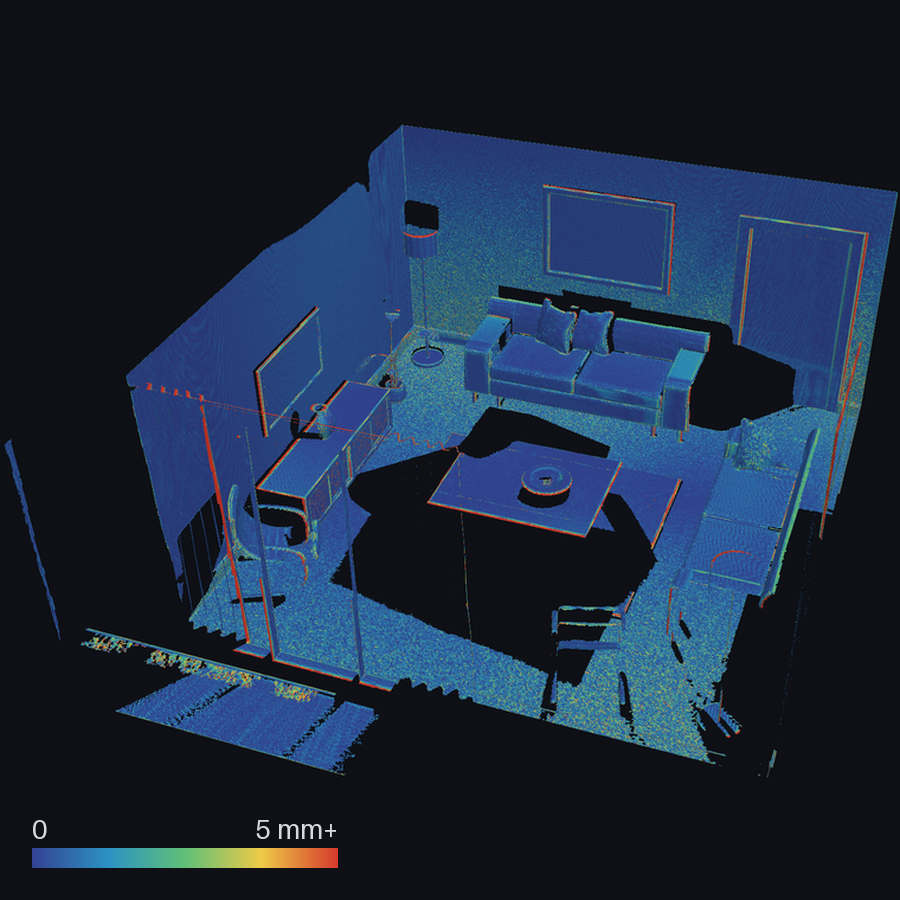
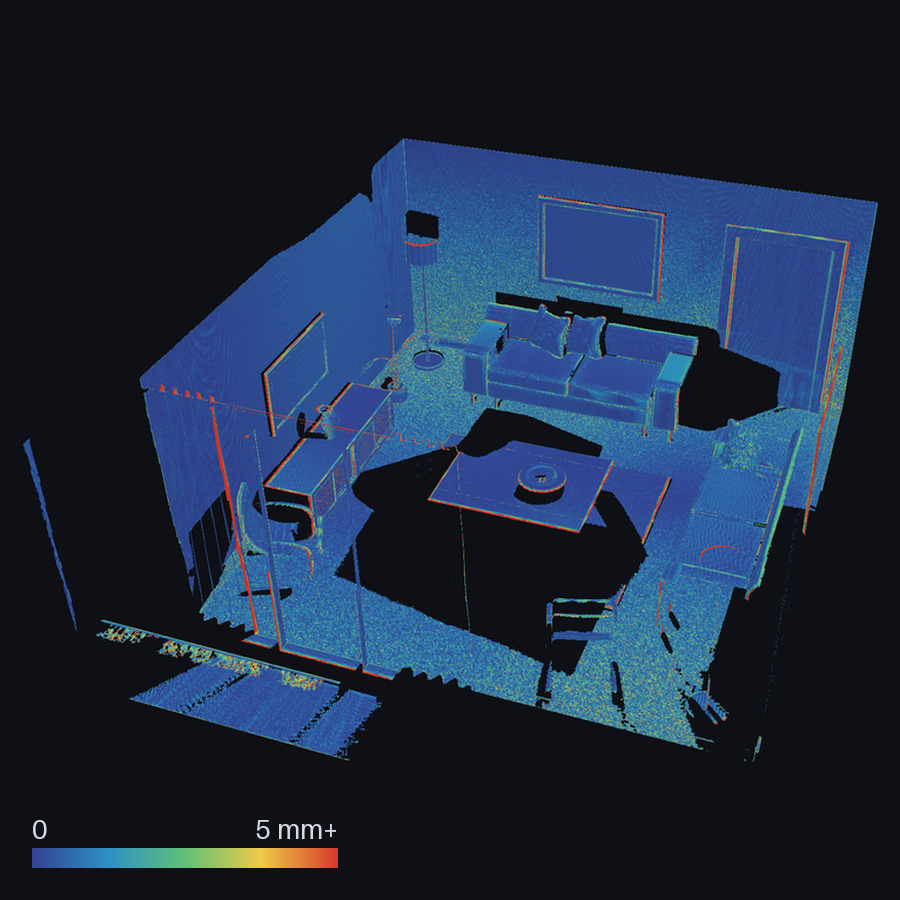
Lead the README with the room and its measured error
The first thing on the page was a desk. It is now the living room at
10 mm turning slowly, coloured from the scan on the left and by its
distance to the ground-truth surface on the right, the two panels
locked to one camera. The caption says what it is: ICL-NUIM's synthetic
scene with exact poses, with the real sensor further down.

Under it, four lines for someone who reads no further: 0.45 mm median
against a known surface, 7.5 mm median residual on a real depth camera,
the same bytes on three operating systems, and what it costs.

The TUM animation moves into the TUM section, beside the geometry-only
view of the same mesh, and the still it replaces is removed. The
accuracy section now pairs the room's bare geometry with its error map,
re-rendered with the flatter lighting.

The ICL-NUIM page gains the command that draws the two panels, and one
correction. A draft of it said the floor was a millimetre or two worse
than the walls, read off the picture. It is not: the medians are
0.53 and 0.47 mm. The page now gives those figures and the real
difference, which is that 28% of the floor is over a millimetre against
15% of the walls.

Changed region(s): [[0.0, 0.1244, 0.9956, 0.8711], [0.84, 0.8089, 0.8711, 0.84], [0.4978, 0.6222, 0.5289, 0.6533]]

diff --git a/README.md b/README.md
@@ -8,15 +8,24 @@ metric TSDF volume and a triangle mesh — reproducibly, bit for bit, with every
 fast path proven identical to a slower one that is easier to trust.
 
 <p align="center">
-  <img src="docs/assets/tum-mesh.gif" width="560" alt="A desk scene reconstructed from the TUM RGB-D freiburg1_xyz sequence, rotating slightly">
+  <img src="docs/assets/icl-room-and-error.gif" width="100%" alt="Two views of a reconstructed living room turning slowly together. On the left it is coloured from the scan: a sofa, a coffee table, pictures on the walls, a lamp. On the right the same mesh is coloured by its distance to the ground-truth surface: blue almost everywhere, with thin red lines along the edges of the furniture.">
 </p>
 
 <p align="center">
-  <em>The TUM RGB-D <code>freiburg1_xyz</code> desk, reconstructed at 15 mm
-  from 395 frames of a real<br>depth camera: 535,486 triangles. This is the
-  measured volume — the numbers below<br>and this mesh come from the same
-  file, tied together by digest.</em>
+  <em>A living room reconstructed at 10 mm from 440 depth frames: 7.2
+  million triangles. Left, coloured from the scan.<br>Right, the same mesh
+  coloured by its measured distance from the ground-truth surface, on a
+  scale that stops at 5 mm.<br>Half of it is within 0.45 mm. The scene is
+  ICL-NUIM's, synthetic and with exact poses; a real sensor is further
+  down.</em>
 </p>
+
+| | |
+|---|---|
+| Against a known surface | **0.45 mm** median, 0.77 mm mean distance to ground truth at 10 mm voxels ([ICL-NUIM](#against-a-known-surface), synthetic depth, exact poses) |
+| On a real depth camera | **7.5 mm** median residual against frames never fused, at 15 mm voxels ([TUM RGB-D](#results-on-real-data)) |
+| Reproducible | the committed scan reconstructs to the same bytes on Linux, macOS and Windows, under Python 3.11 and 3.14, checked on every push |
+| Cost | one CPU core and NumPy: 6.3 billion voxel-observations fused in 211 s |
 
 ---
 
@@ -71,14 +80,16 @@ uses ground-truth poses throughout, so it says nothing about pose estimation.
 It bounds disagreement between views, not absolute correctness.
 
 <p align="center">
-  <img src="docs/assets/tum-mesh-geometry.png" width="49%" alt="The reconstructed mesh shaded without colour">
-  <img src="docs/assets/tum-mesh.png" width="49%" alt="The same mesh coloured from the scan's RGB frames">
+  <img src="docs/assets/tum-mesh.gif" width="49%" alt="A desk reconstructed from the TUM RGB-D freiburg1_xyz sequence, coloured from the scan and rotating slightly">
+  <img src="docs/assets/tum-mesh-geometry.png" width="49%" alt="The same mesh shaded without colour">
 </p>
 
 <p align="center">
-  <em>Left: the geometry alone. Right: the same mesh, each vertex coloured
-  only by RGB frames that<br>actually see it. Colour is a way of looking at
-  the geometry; the mesh file carries none.</em>
+  <em>The desk at 15 mm, 535,486 triangles, from 395 frames of a real
+  depth camera. Left: each vertex coloured<br>only by RGB frames that
+  actually see it. Right: the geometry alone. This is the measured
+  volume: the numbers<br>above and this mesh come from the same file,
+  tied together by digest.</em>
 </p>
 
 On one laptop CPU core, with NumPy and no GPU:
@@ -105,14 +116,15 @@ surface is from the truth, because TUM does not publish the truth.
 synthetic living room, rendered from a model that ships with the dataset.
 
 <p align="center">
-  <img src="docs/assets/icl-room.png" width="49%" alt="The ICL-NUIM living room reconstructed at 10 mm and coloured from the scan, seen from above with the near walls removed">
-  <img src="docs/assets/icl-room-error.png" width="49%" alt="The same mesh coloured by distance to the ground-truth model: blue almost everywhere, with thin red lines along the edges of furniture, picture frames and the door">
+  <img src="docs/assets/icl-room-geometry.png" width="49%" alt="The ICL-NUIM living room reconstructed at 10 mm, shaded without colour and seen from above with the near walls removed: sofa cushions, picture frames and a door panel are all resolved">
+  <img src="docs/assets/icl-room-error.png" width="49%" alt="The same mesh coloured by distance to the ground-truth model: blue almost everywhere, finely speckled with lighter points, and thin red lines along the edges of furniture, picture frames and the door">
 </p>
 
 <p align="center">
-  <em>Left: the room at 10 mm voxels, 7.2 million triangles. Right: the same
-  mesh coloured by its distance<br>to the ground-truth surface. The scale
-  saturates at 5 mm; 95% of the surface is under 2.4 mm.</em>
+  <em>Left: the geometry alone at 10 mm voxels, 7.2 million triangles.
+  Right: the same mesh coloured by its<br>distance to the ground-truth
+  surface. The scale saturates at 5 mm; 95% of the surface is under
+  2.4 mm.</em>
 </p>
 
 Distance from every mesh vertex to the true surface, sequence `lr kt2`, 440

diff --git a/docs/icl-nuim-validation.md b/docs/icl-nuim-validation.md
@@ -11,7 +11,7 @@ dataset. This page measures the reconstructed mesh against that model.
 
 <p align="center">
   <img src="assets/icl-room.png" width="49%" alt="The ICL-NUIM living room reconstructed at 10 mm and coloured from the scan, seen from above with the near walls removed">
-  <img src="assets/icl-room-error.png" width="49%" alt="The same mesh coloured by distance to the ground-truth model: blue almost everywhere, with thin red lines along the edges of furniture, picture frames and the door">
+  <img src="assets/icl-room-error.png" width="49%" alt="The same mesh coloured by distance to the ground-truth model: blue almost everywhere, finely speckled with lighter points, and thin red lines along the edges of furniture, picture frames and the door">
 </p>
 
 <p align="center">
@@ -146,7 +146,9 @@ error is not spread over the surface. It is concentrated, and the picture
 at the top of this page shows where: along silhouette edges, where a thin
 structure or an occlusion boundary is narrower than the truncation band,
 and the surface either rounds off or carries a fringe past the edge.
-Walls, floor and table tops stay at the low end of the scale.
+Walls, floor and table tops stay at the low end of the scale. The floor is the more speckled:
+at 10 mm its median is 0.53 mm against 0.47 mm for vertical surfaces,
+but 28% of it is over a millimetre where 15% of the walls are.
 
 **There is a small bias towards the camera.** The mean signed distance is
 +0.33 mm at 10 mm, with the model's normals pointing into free space. Raw
@@ -283,6 +285,15 @@ python tools/surface_accuracy_report.py \
 python tools/render_mesh.py datasets/icl-kt2-10mm.ply datasets/icl-error \
   --vertex-errors datasets/icl-kt2-10mm-errors.npy --error-scale-mm 5 \
   --cull-back-faces --azimuth 200 --elevation 35
+```
+
+```bash
+# 6. Or the scan's colour and the error side by side, one camera for both
+python tools/render_mesh.py datasets/icl-kt2-10mm.ply datasets/icl-both \
+  --session datasets/icl-kt2.vgsession \
+  --vertex-errors datasets/icl-kt2-10mm-errors.npy --error-scale-mm 5 \
+  --cull-back-faces --azimuth 200 --elevation 35 \
+  --size 560 --frames 24 --sweep 24
 ```
 
 The initial translation is where the trajectory's origin sits in the
